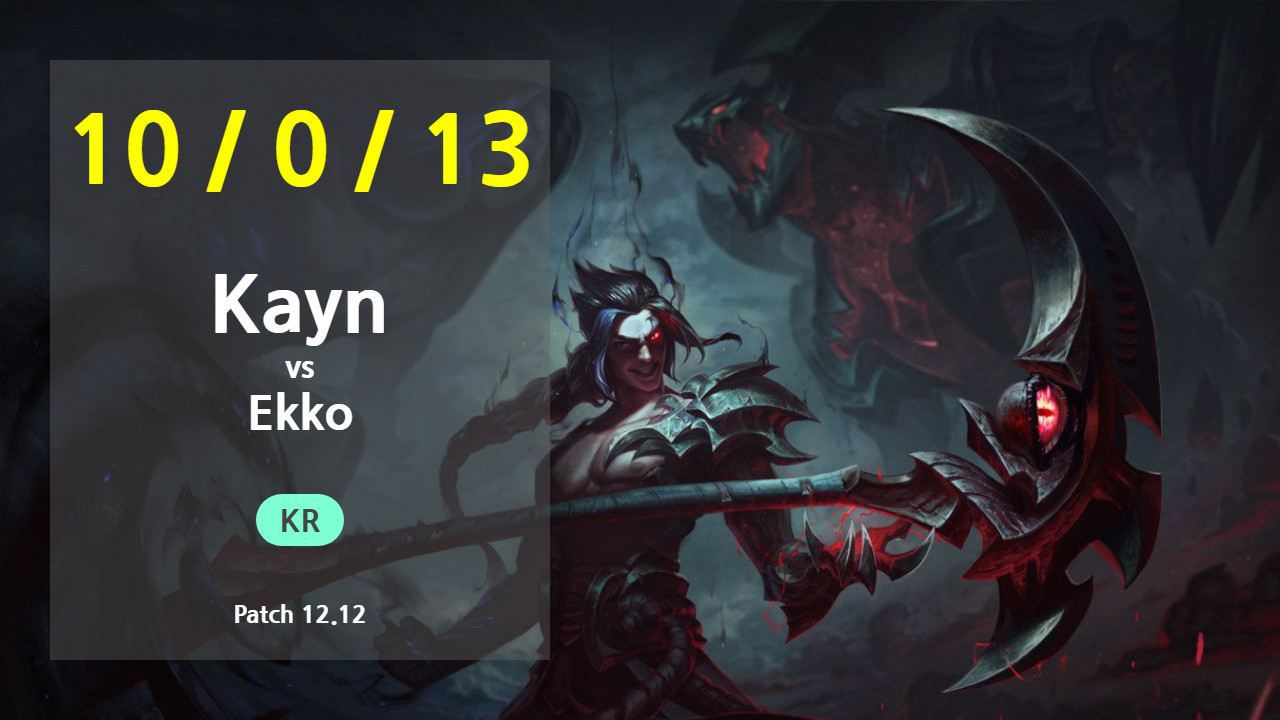
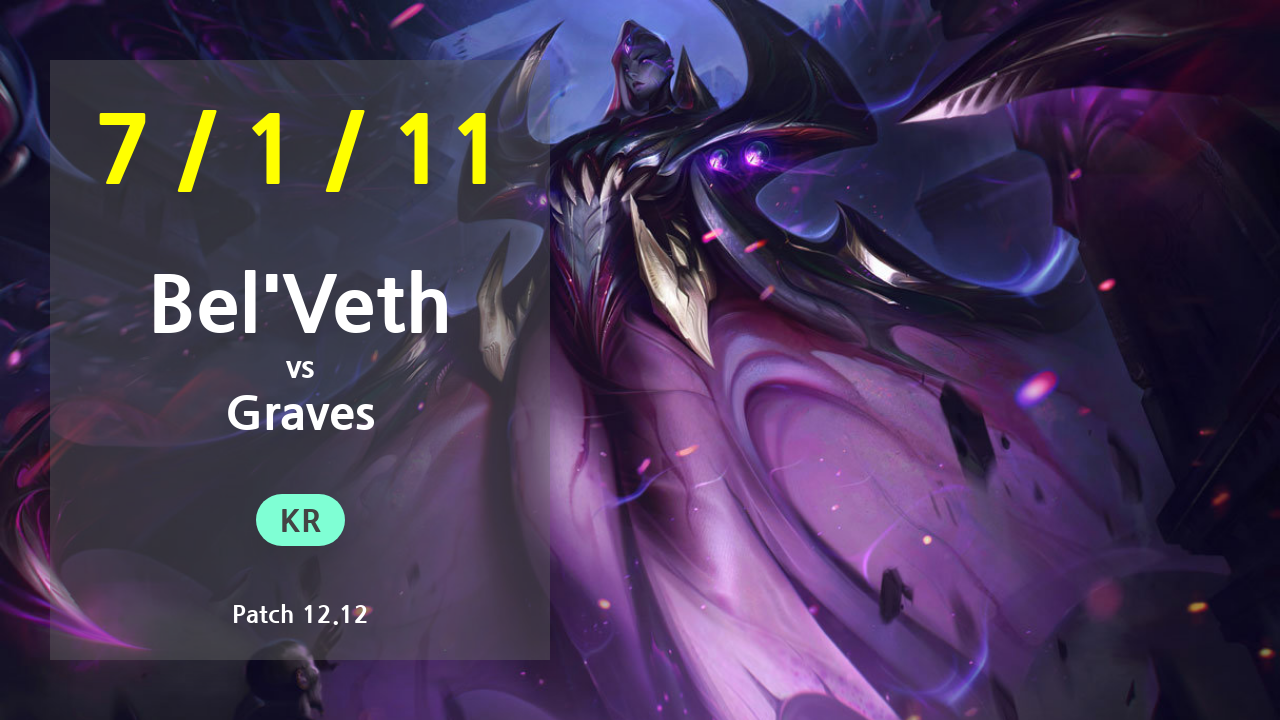
refactor: fix linux thumbnail.html path

diff --git a/assets/thumbnail.html b/assets/thumbnail.html
@@ -13,7 +13,7 @@
         font-family: 'Nanum Gothic', sans-serif;
         }
         .container {
-        background-image: url('https://ddragon.leagueoflegends.com/cdn/img/champion/splash/Kayn_0.jpg');
+        background-image: url('https://ddragon.leagueoflegends.com/cdn/img/champion/splash/Belveth_0.jpg');
         background-size: cover;
         width: 1280px;
         height: 720px;
@@ -70,12 +70,12 @@
     <div class="container">
     <div class="frame">
         <div class="kda">
-        <p>10 / 0 / 13</p>
+        <p>7 / 1 / 11</p>
         </div>
         <div class="match">
-        <p class="mvp">Kayn</p>
+        <p class="mvp">Bel'Veth</p>
         <p class="vs">vs</p>
-        <p>Ekko</p>
+        <p>Graves</p>
         </div>
         <div class="region">
         <p>KR</p>

diff --git a/video_maker/entities/data_scrapper.py b/video_maker/entities/data_scrapper.py
@@ -1,3 +1,4 @@
+import sys
 from selenium import webdriver
 from selenium.webdriver.chrome.service import Service as BraveService
 from webdriver_manager.chrome import ChromeDriverManager
@@ -15,8 +16,10 @@ class DataScrapper:
                         }
         self.__options.add_experimental_option('prefs', self.__prefs)
         self.__options.headless = True
-        # self.__options.binary_location = self.__linux_binary_loation
-        self.__options.binary_location = self.__windows_binary_location
+        if sys.platform == 'linux' or sys.platform == 'linux2':
+            self.__options.binary_location = self.__linux_binary_loation
+        if sys.platform == 'win32':
+            self.__options.binary_location = self.__windows_binary_location
         self.driver = webdriver.Chrome(
             service=BraveService(
                 ChromeDriverManager(chrome_type=ChromeType.BRAVE).install()),

diff --git a/video_maker/usecases/create_thumbnail.py b/video_maker/usecases/create_thumbnail.py
@@ -1,5 +1,4 @@
 import os
-from pprint import pprint
 from time import sleep
 from usecases.data import load
 from entities.data_scrapper import DataScrapper
@@ -21,9 +20,9 @@ class CreateThumbnail:
             region=self.lol_data['region'],
             patch=self.lol_data['patch']
         )
-        cwd = os.getcwd()
-        html_path = os.path.join(cwd, 'assets', 'thumbnail.html')
-        self.scrapper.driver.get(html_path)
+        html_path = os.path.abspath('assets/thumbnail.html')
+        print(html_path)
+        self.scrapper.driver.get('file://' + html_path)
         sleep(2)
         self.scrapper.driver.set_window_size(1280, 720)
         self.scrapper.driver.save_screenshot('./assets/thumb.png')
